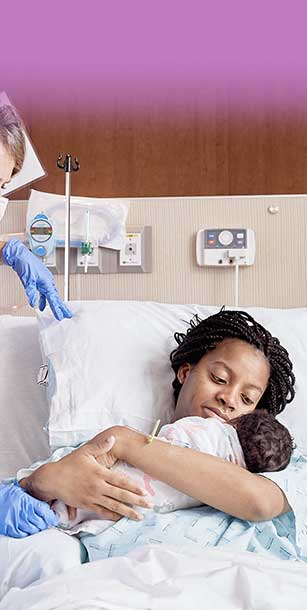
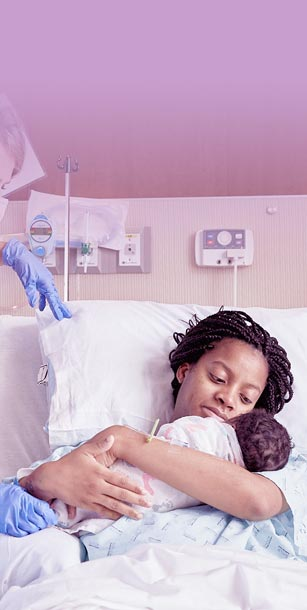
updates to bsw

diff --git a/demopage/BSW/BSWH-LD_Animations_wave_03/img/300x600/index.js b/demopage/BSW/BSWH-LD_Animations_wave_03/img/300x600/index.js
@@ -121,13 +121,13 @@ if (reversed == null) { reversed = false; }
 
 	// Layer_1
 	this.instance = new lib.image_02();
-	this.instance.setTransform(-96,-173);
+	this.instance.setTransform(-96,-185);
 
 	this.timeline.addTween(cjs.Tween.get(this.instance).wait(1));
 
 	this._renderFirstFrame();
 
-}).prototype = getMCSymbolPrototype(lib.image_02_1, new cjs.Rectangle(-96,-173,339,385), null);
+}).prototype = getMCSymbolPrototype(lib.image_02_1, new cjs.Rectangle(-96,-185,339,385), null);
 
 
 (lib.image_01_1 = function(mode,startPosition,loop,reversed) {
